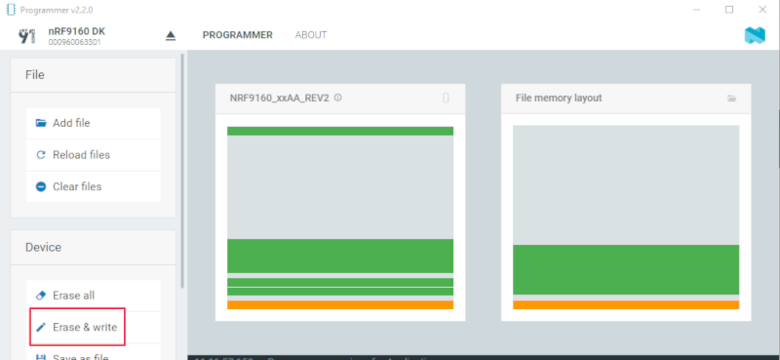
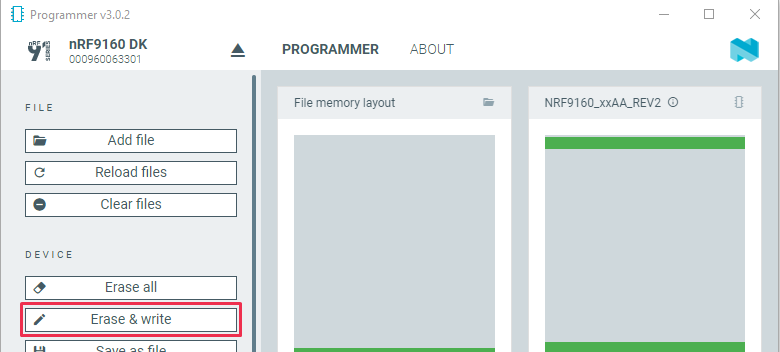
doc: update modem firmware before application firmware for nRF9160 DK
Updating modem firmware erases application firmware, so it is
better to have the instructions for updating modem firmware
before the instructions for updating application firmware.

Also updated Programmer screenshots to latest version of Programmer.

diff --git a/doc/nrf/ug_nrf9160_gs.rst b/doc/nrf/ug_nrf9160_gs.rst
@@ -8,7 +8,7 @@ Getting started with nRF9160 DK
    :depth: 2
 
 This section will get you started with your nRF9160 DK.
-You will update the firmware (both the application firmware and the modem firmware) and the nRF Cloud certificates of the DK, and conduct some initial tests.
+You will update the firmware (both the modem firmware and the application firmware) and the nRF Cloud certificates of the DK, and conduct some initial tests.
 
 If you have already set up your nRF9160 DK and want to learn more, see the following documentation:
 
@@ -76,59 +76,6 @@ Modem firmware
   The zip is named :file:`mfwnrf9160_` followed by the firmware version number.
   Do not unzip this file.
 
-.. _nrf9160_gs_updating_fw_application:
-
-Updating the application firmware
-=================================
-
-To update the application firmware, complete the following steps.
-If you experience any problems during the process, restart the Programmer app by pressing ``Ctrl+R`` (``command+R`` in macOS), and try again.
-
-1. Open the Programmer app.
-#. Make sure the **PROG/DEBUG SW10** switch on the nRF9160 DK is set to **nRF91**.
-   On DK v0.9.0 and earlier, this is the **SW5** switch.
-#. Connect the nRF9160 DK to the computer with a micro-USB cable, and then turn the DK on.
-#. Click :guilabel:`Select device` and select the DK from the drop-down list.
-   You can identify the nRF9160 DK by the fact that it has three COM ports when you expand its entry.
-
-   .. figure:: /images/programmer_com_ports.png
-      :alt: Programmer - COM ports
-
-      Programmer - COM ports
-
-   If the three COM ports are not visible, press ``Ctrl+R`` in Windows or ``command+R`` in macOS to restart the Programmer application.
-
-   The button text changes to the type of the selected device, with the SEGGER ID below the name.
-   The :guilabel:`Device Memory Layout` section also changes its name to the device name, and indicates that the device is connected.
-   If the :guilabel:`Auto read memory` option is selected in the :guilabel:`Device` section, the memory layout will update.
-   If it is not selected and you wish to see the memory layout, click :guilabel:`Read` in the :guilabel:`Device` section.
-
-#. Click :guilabel:`Add file` in the :guilabel:`File` section, and select :guilabel:`Browse`.
-
-   .. figure:: /images/programmer_addfile_nrf9160dk.png
-      :alt: Programmer - Add file
-
-      Programmer - Add file
-
-#. Navigate to where you extracted the firmware, and then to the :file:`img_app_bl` folder there.
-#. Select either :file:`nrf9160dk_asset_tracker_v2_ltem_<version-number>.hex` (LTE-M mode) or :file:`nrf9160dk_asset_tracker_v2_nbiot_<version-number>.hex` (NB-IoT mode), depending on where you are located.
-   Check with your SIM card provider for the mode supported at your location.
-   If you are using the iBasis SIM card provided with the DK, you can see `iBasis IoT network coverage`_ .
-   You can use either mode if your location has support for both.
-
-   For NB-IoT, there is a second variant of the firmware in the :file:`nrf9160dk_asset_tracker_v2_nbiot_legacy_pco_<version-number>.hex` file.
-   Only use this legacy variant if your network does not support ePCO.
-
-#. Click the :guilabel:`Erase & write` button in the :guilabel:`Device` section to program the DK.
-   Do not unplug or turn off the DK during this process.
-
-   .. figure:: /images/programmer_erasewrite_nrf9160dk.png
-      :alt: Programmer - Erase & write
-
-      Programmer - Erase & write
-
-If you continue to updating the modem firmware, you can go directly to Step 5.
-
 .. _nrf9160_gs_updating_fw_modem:
 
 Updating the modem firmware
@@ -136,6 +83,10 @@ Updating the modem firmware
 
 To update the modem firmware, complete the following steps.
 If you experience any problems during the process, restart the Programmer app by pressing ``Ctrl+R`` (``command+R`` on macOS), and try again.
+
+.. note::
+
+   Updating the modem firmware erases the contents of the flash memory, so the application must be programmed again to the nRF9160 DK.
 
 1. Open the Programmer app.
 #. Make sure the **PROG/DEBUG SW10** switch on the nRF9160 DK is set to **nRF91**.
@@ -182,12 +133,62 @@ If you experience any problems during the process, restart the Programmer app by
    Do not unplug or turn off the device during this process.
 
 When the update is complete, you see a success message.
+If you update the application firmware now, you can go directly to Step 5 of :ref:`nrf9160_gs_updating_fw_application`.
 
 .. note::
 
    If you experience problems updating the modem firmware, click :guilabel:`Erase all` in the :guilabel:`Device` section of the side panel and try updating again.
 
-   Doing this erases the contents of the flash memory, so the application must be programmed again to the DK.
+.. _nrf9160_gs_updating_fw_application:
+
+Updating the application firmware
+=================================
+
+To update the application firmware, complete the following steps.
+If you experience any problems during the process, restart the Programmer app by pressing ``Ctrl+R`` (``command+R`` in macOS), and try again.
+
+1. Open the Programmer app.
+#. Make sure the **PROG/DEBUG SW10** switch on the nRF9160 DK is set to **nRF91**.
+   On DK v0.9.0 and earlier, this is the **SW5** switch.
+#. Connect the nRF9160 DK to the computer with a micro-USB cable, and then turn the DK on.
+#. Click :guilabel:`Select device` and select the DK from the drop-down list.
+   You can identify the nRF9160 DK by the fact that it has three COM ports when you expand its entry.
+
+   .. figure:: /images/programmer_com_ports.png
+      :alt: Programmer - COM ports
+
+      Programmer - COM ports
+
+   If the three COM ports are not visible, press ``Ctrl+R`` in Windows or ``command+R`` in macOS to restart the Programmer application.
+
+   The drop-down text changes to the type of the selected device, with its SEGGER ID below the name.
+   The :guilabel:`Device Memory Layout` section also changes its name to the device name, and indicates that the device is connected.
+   If the :guilabel:`Auto read memory` option is selected in the :guilabel:`Device` section, the memory layout will update.
+   If it is not selected and you wish to see the memory layout, click :guilabel:`Read` in the :guilabel:`Device` section.
+
+#. Click :guilabel:`Add file` in the :guilabel:`File` section, and select :guilabel:`Browse`.
+
+   .. figure:: /images/programmer_addfile_nrf9160dk.png
+      :alt: Programmer - Add file
+
+      Programmer - Add file
+
+#. Navigate to where you extracted the firmware, and then to the :file:`img_app_bl` folder there.
+#. Select either :file:`nrf9160dk_asset_tracker_v2_ltem_<version-number>.hex` (LTE-M mode) or :file:`nrf9160dk_asset_tracker_v2_nbiot_<version-number>.hex` (NB-IoT mode), depending on where you are located.
+   Check with your SIM card provider for the mode supported at your location.
+   If you are using the iBasis SIM card provided with the DK, you can see `iBasis IoT network coverage`_ .
+   You can use either mode if your location has support for both.
+
+   For NB-IoT, there is a second variant of the firmware in the :file:`nrf9160dk_asset_tracker_v2_nbiot_legacy_pco_<version-number>.hex` file.
+   Only use this legacy variant if your network does not support ePCO.
+
+#. Click the :guilabel:`Erase & write` button in the :guilabel:`Device` section to program the DK.
+   Do not unplug or turn off the DK during this process.
+
+   .. figure:: /images/programmer_erasewrite_nrf9160dk.png
+      :alt: Programmer - Erase & write
+
+      Programmer - Erase & write
 
 .. _nrf9160_gs_connecting_dk_to_cloud:
 

diff --git a/doc/nrf/releases/release-notes-changelog.rst b/doc/nrf/releases/release-notes-changelog.rst
@@ -423,16 +423,17 @@ Documentation
 
 * Added:
 
-* Added documentation page for the :ref:`lib_flash_map_pm` library.
-* :ref:`ug_thread_prebuilt_libs` as a separate page instead of being part of :ref:`ug_thread_configuring`.
+  * Added documentation page for the :ref:`lib_flash_map_pm` library.
+  * :ref:`ug_thread_prebuilt_libs` as a separate page instead of being part of :ref:`ug_thread_configuring`.
 
 * Updated:
 
-* :ref:`ug_thread_configuring` to better indicate what is required and what is optional.
-  Also added further clarifications to the page to make everything more clear.
+  * :ref:`ug_thread_configuring` to better indicate what is required and what is optional.
+    Also added further clarifications to the page to make everything more clear.
+  * :ref:`ug_nrf9160_gs` by moving :ref:`nrf9160_gs_updating_fw_modem` before :ref:`nrf9160_gs_updating_fw_application` because updating modem firmware erases application firmware.
 
 * Removed:
 
-* |no_changes_yet_note|
+  * |no_changes_yet_note|
 
 .. |no_changes_yet_note| replace:: No changes since the latest |NCS| release.
